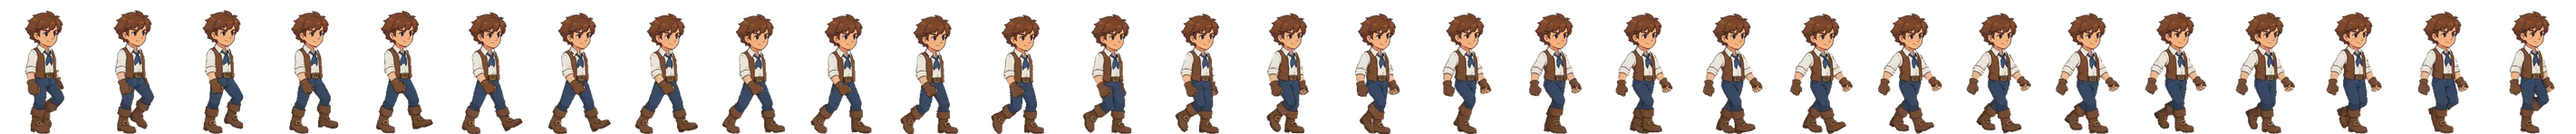
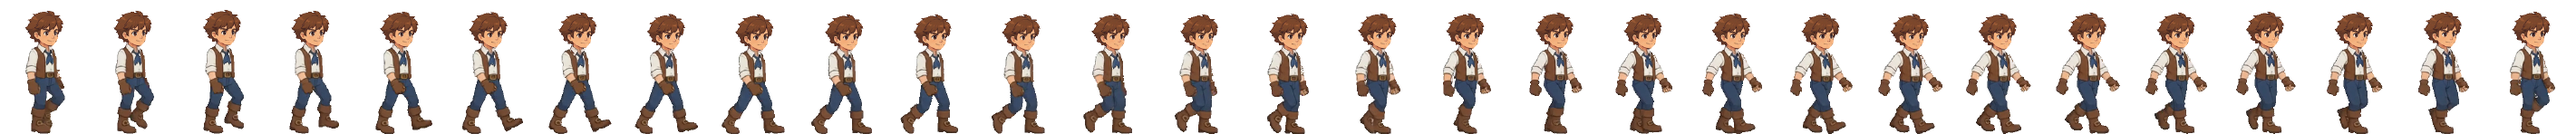
Sprixen pipeline QA + front/back idles
- tools/sprixen/qa_strip.py: per-frame checks (fringe, haze, holes, specks, ground
  contact, size, drift, head lock, pops/seam) + contact sheets
- resample.py: premultiplied area downscale (no Lanczos ringing specks),
  final defringe, pinhole fill, feet snapped to the ground row
- front/back base sprites + breathing idles (face-locked, swell removed),
  all directions normalized to the same 133px in-game height
- player.gd loads <hero>_<down|up>_<walk|idle>.png strips when present
- find_loop.py / normalize_swell.py helpers

Claude-Session: https://claude.ai/code/session_01BTTj8a1B5QVYLgtfGJQMDk

diff --git a/tools/sprixen/qa_strip.py b/tools/sprixen/qa_strip.py
@@ -1,0 +1,146 @@
+"""Frame-by-frame quality check for an in-game animation strip (98x148 cells).
+
+Checks every frame for:
+  halo     edge pixels much lighter than the colour just inside them (white fringe)
+  haze     cool / greenish light pixels (background-removal leftovers)
+  holes    see-through pockets fully enclosed by the character
+  islands  stray specks not connected to the body
+  ground   feet not touching the cell's bottom row (floating / sinking)
+  size     character height vs the target and vs the other frames
+  drift    side-to-side wobble of the body centre
+  head     head region changing shape between frames (face lock check)
+  pops     a frame-to-frame change much larger than the rest (jumps), incl. the loop seam
+and writes a 3x contact sheet on magenta + green for a visual pass.
+
+usage: python3 qa_strip.py <strip.png> <name> [target_height=133] [walk|idle]
+exit code 1 if any check fails.
+"""
+import sys
+import numpy as np
+from PIL import Image, ImageDraw
+from scipy import ndimage
+
+CELL_W, CELL_H, FOOT_Y = 98, 148, 147
+
+
+def frames_of(path):
+    im = np.array(Image.open(path).convert("RGBA")).astype(np.int32)
+    n = im.shape[1] // CELL_W
+    return [im[:, i * CELL_W:(i + 1) * CELL_W] for i in range(n)]
+
+
+def main():
+    path, name = sys.argv[1], sys.argv[2]
+    target = float(sys.argv[3]) if len(sys.argv) > 3 else 133.0
+    kind = sys.argv[4] if len(sys.argv) > 4 else "walk"
+    fr = frames_of(path)
+    n = len(fr)
+    fails, notes = [], []
+    heights, centres, bottoms, heads, masks = [], [], [], [], []
+    for i, f in enumerate(fr):
+        a = f[:, :, 3]
+        m = a > 0
+        solid = a >= 128
+        ys, xs = np.where(m)
+        top, bot = ys.min(), ys.max()
+        heights.append(bot - top)
+        bottoms.append(bot)
+        t0, t1 = top + int(0.40 * (bot - top)), top + int(0.55 * (bot - top))   # torso band
+        centres.append(np.where(m[t0:t1])[1].mean())
+        masks.append(solid)
+        # head silhouette: top 28% of the body, aligned on its own top row
+        hh = int(0.28 * (bot - top))
+        head = np.zeros((hh, CELL_W), bool)
+        head[:] = solid[top:top + hh]
+        heads.append(head)
+
+        rgb = f[:, :, :3]
+        lum = rgb.mean(2)
+        # halo: outer edge pixels that are much lighter than the solid pixel 2px inside
+        outside = ~m
+        edge = m & ndimage.binary_dilation(outside)
+        inner = solid & ~ndimage.binary_dilation(outside, iterations=2)
+        if inner.any():
+            _, (iy, ix) = ndimage.distance_transform_edt(~inner, return_indices=True)
+            halo = edge & (lum - lum[iy, ix] > 45) & (lum > 170)
+            h = int(halo.sum())
+            if h > 6:
+                fails.append(f"frame {i}: {h} white-fringe edge pixels")
+            elif h:
+                notes.append(f"frame {i}: {h} light edge px (ok)")
+        haze = m & ndimage.binary_dilation(outside, iterations=3) & (rgb.min(2) > 140) & (rgb[:, :, 0] < np.maximum(rgb[:, :, 1], rgb[:, :, 2]) - 6)
+        if haze.sum() > 3:
+            fails.append(f"frame {i}: {int(haze.sum())} cool/greenish haze px")
+        holes, nh = ndimage.label(ndimage.binary_fill_holes(solid) & ~solid)
+        for k in range(1, nh + 1):
+            sz = int((holes == k).sum())
+            hy, hx = np.where(holes == k)
+            if sz >= 3 and hy.mean() < top + 0.55 * (bot - top):
+                fails.append(f"frame {i}: see-through hole {sz}px at ({int(hx.mean())},{int(hy.mean())})")
+        lab, nl = ndimage.label(m)
+        if nl > 1:
+            sizes = ndimage.sum(m, lab, range(1, nl + 1))
+            main = sizes.max()
+            specks = [int(s) for s in sizes if s < main]
+            if specks:
+                fails.append(f"frame {i}: {len(specks)} stray speck(s), largest {max(specks)}px")
+        if bot != FOOT_Y:
+            fails.append(f"frame {i}: feet at row {bot}, not on the ground row {FOOT_Y}")
+
+    H = np.array(heights, float)
+    C = np.array(centres)
+    med_h = float(np.median(H))
+    if abs(med_h - target) > 3:
+        fails.append(f"median height {med_h:.0f}px vs target {target:.0f}px")
+    if kind == "idle" and H.max() - H.min() > 3:
+        fails.append(f"idle height varies {H.min():.0f}-{H.max():.0f}px")
+    if kind == "walk" and H.max() - H.min() > 8:
+        fails.append(f"walk height varies {H.min():.0f}-{H.max():.0f}px")
+    jumps = np.abs(np.diff(np.r_[C, C[0]]))
+    if jumps.max() > 2.5:
+        fails.append(f"body centre jumps {jumps.max():.1f}px between frames {int(jumps.argmax())}->{(int(jumps.argmax()) + 1) % n}")
+    # head shape stability (IoU vs median frame)
+    ref = heads[n // 2]
+    for i, h in enumerate(heads):
+        k = min(len(h), len(ref))
+        inter = (h[:k] & ref[:k]).sum(); uni = (h[:k] | ref[:k]).sum()
+        iou = inter / max(uni, 1)
+        if iou < 0.80:
+            fails.append(f"frame {i}: head shape differs (IoU {iou:.2f})")
+    # pops: silhouette change between consecutive frames, including the loop seam
+    d = np.array([(masks[i] ^ masks[(i + 1) % n]).sum() for i in range(n)], float)
+    med = np.median(d)
+    for i, v in enumerate(d):
+        if v > max(2.6 * med, med + 120):
+            fails.append(f"pop: frame {i}->{(i + 1) % n} changes {int(v)}px (typical {int(med)})")
+
+    print(f"== {name}: {n} frames, height {H.min():.0f}-{H.max():.0f} (median {med_h:.0f}, target {target:.0f}), "
+          f"centre range {C.min():.1f}-{C.max():.1f}, max centre step {jumps.max():.1f}, "
+          f"silhouette change median {med:.0f}px max {d.max():.0f}px")
+    for x in notes[:6]:
+        print("   note:", x)
+    for x in fails:
+        print("   FAIL:", x)
+    print("   RESULT:", "PASS" if not fails else f"{len(fails)} issue(s)")
+
+    # contact sheet
+    cols = min(n, 10)
+    rows = (n + cols - 1) // cols
+    S = 3
+    sheet = Image.new("RGBA", (cols * CELL_W * S, rows * CELL_H * S * 2), (0, 0, 0, 255))
+    strip = Image.open(path).convert("RGBA")
+    for bi, bg in enumerate([(200, 0, 200, 255), (110, 165, 85, 255)]):
+        for i in range(n):
+            cell = strip.crop((i * CELL_W, 0, (i + 1) * CELL_W, CELL_H)).resize((CELL_W * S, CELL_H * S), Image.NEAREST)
+            tile = Image.new("RGBA", cell.size, bg)
+            tile.alpha_composite(cell)
+            ImageDraw.Draw(tile).text((4, 4), str(i), fill=(255, 255, 255, 255))
+            sheet.paste(tile, ((i % cols) * CELL_W * S, (bi * rows + i // cols) * CELL_H * S))
+    out = f"/tmp/qa_{name}.png"
+    sheet.save(out)
+    print("   contact sheet:", out)
+    sys.exit(1 if fails else 0)
+
+
+if __name__ == "__main__":
+    main()

diff --git a/tools/sprixen/resample.py b/tools/sprixen/resample.py
@@ -1,0 +1,71 @@
+"""Shared downscale for game strips: premultiplied-alpha area averaging.
+Lanczos rings at hard edges (faint specks + light halo just outside the outline);
+area averaging in premultiplied space can't overshoot, so edges stay clean.
+Alpha below FLOOR (invisible dust) is dropped."""
+import numpy as np
+from PIL import Image
+
+FLOOR = 24
+
+
+def downscale(img, w, h):
+    small = img.convert("RGBa").resize((w, h), Image.BOX).convert("RGBA")
+    a = np.array(small)
+    a[a[:, :, 3] < FLOOR] = 0
+    return Image.fromarray(a)
+
+
+def defringe(img, lighter=40, passes=2):
+    """Final game-size pass: an outer edge pixel that is clearly lighter than the solid
+    pixel just inside it is a light rim outside the dark outline -> take the inside colour."""
+    from scipy import ndimage
+    a = np.array(img.convert("RGBA")).astype(np.int32)
+    for _ in range(passes):
+        alpha = a[:, :, 3]
+        m = alpha > 0
+        solid = alpha >= 128
+        edge = m & ndimage.binary_dilation(~m)
+        inner = solid & ~ndimage.binary_dilation(~m, iterations=2)
+        if not inner.any():
+            break
+        _, (iy, ix) = ndimage.distance_transform_edt(~inner, return_indices=True)
+        lum = a[:, :, :3].mean(2)
+        rgb = a[:, :, :3]
+        bad = edge & (lum - lum[iy, ix] > lighter) & (lum > 150)
+        # cool / greenish light pixels near the outside are background-removal leftovers
+        # (inside the body, white shirt next to the navy neckerchief is legitimately bluish-grey)
+        near_out = ndimage.binary_dilation(~m, iterations=3)
+        bad |= m & near_out & (rgb.min(2) > 140) & (rgb[:, :, 0] < np.maximum(rgb[:, :, 1], rgb[:, :, 2]) - 6)
+        a[bad, :3] = a[iy[bad], ix[bad], :3]
+    return Image.fromarray(a.astype(np.uint8))
+
+
+def snap_feet(img, cell_w=98, foot_y=147):
+    """Shift each cell up/down so its lowest solid row sits exactly on the ground row
+    (rounding during scaling can leave a frame floating or sunk by 1px)."""
+    a = np.array(img.convert("RGBA"))
+    for i in range(a.shape[1] // cell_w):
+        c = a[:, i * cell_w:(i + 1) * cell_w]
+        rows = np.where((c[:, :, 3] >= 128).any(1))[0]
+        if len(rows):
+            dy = foot_y - rows.max()
+            if dy:
+                a[:, i * cell_w:(i + 1) * cell_w] = np.roll(c, dy, axis=0)
+    return Image.fromarray(a)
+
+
+def fill_pinholes(img, max_px=12):
+    """Close tiny see-through pockets fully enclosed by the body (one-frame flicker gaps
+    between a forearm and the hip); real gaps like between the legs are much larger."""
+    from scipy import ndimage
+    a = np.array(img.convert("RGBA")).astype(np.int32)
+    solid = a[:, :, 3] >= 128
+    holes, n = ndimage.label(ndimage.binary_fill_holes(solid) & ~solid)
+    if n:
+        _, (iy, ix) = ndimage.distance_transform_edt(~solid, return_indices=True)
+        for k in range(1, n + 1):
+            hm = holes == k
+            if hm.sum() <= max_px:
+                a[hm, :3] = a[iy[hm], ix[hm], :3]
+                a[hm, 3] = 255
+    return Image.fromarray(a.astype(np.uint8))

diff --git a/tools/sprixen/lock_head.py b/tools/sprixen/lock_head.py
@@ -10,7 +10,7 @@ Per frame:
   4. warp the hair rows by a lagged copy of the bob (hair trails the head by ~2
      frames and settles), fading to zero at the brow so the face stays rigid.
 
-usage: python3 lock_head.py <sheet.png> <base_sprite.png> <out_sheet.png> [cycles=2] [hair_gain=0.8]
+usage: python3 lock_head.py <sheet.png> <base_sprite.png> <out_sheet.png> [cycles=2] [hair_gain=0.8] [profile=side]
   cycles = how many up/down bobs one loop contains (2 for a walk, 1 for an idle)
 """
 import sys
@@ -21,9 +21,14 @@ from scipy import ndimage
 ALPHA_CUT = 60    # Sprixen leaves the far arm partly see-through: anything above this counts as solid
 
 SRC = 256
-# rows of the approved base sprite (arthur_v1_base.png)
-HEAD_TOP, BROW, CHIN_CUT = 18, 50, 88     # head = rows HEAD_TOP..CHIN_CUT
-FACE = (54, 84)                            # rows used to find the head in a frame
+# rows of each approved base sprite: head = HEAD_TOP..CHIN_CUT, FACE = rows used to find the head
+PROFILES = {
+    "side":  dict(HEAD_TOP=18, BROW=50, CHIN_CUT=88, FACE=(54, 84)),   # arthur_v1_base.png
+    "front": dict(HEAD_TOP=14, BROW=46, CHIN_CUT=84, FACE=(48, 78)),   # arthur_front_base.png
+    "back":  dict(HEAD_TOP=20, BROW=46, CHIN_CUT=84, FACE=(44, 78)),   # arthur_back_base.png (hair)
+}
+HEAD_TOP, BROW, CHIN_CUT = 18, 50, 88
+FACE = (54, 84)
 FEATHER = 4                                # soft blend rows at the bottom of the pasted head
 
 
@@ -91,10 +96,13 @@ def harmonics(v, cycles):
 
 def main():
     sheet = Image.open(sys.argv[1]).convert("RGBA")
-    base = rgba(Image.open(sys.argv[2]).convert("RGBA"))
+    base = clean_body(rgba(Image.open(sys.argv[2]).convert("RGBA")))   # the approved head has Sprixen's white rim too
     out_path = sys.argv[3]
     cycles = int(sys.argv[4]) if len(sys.argv) > 4 else 2
     hair_gain = float(sys.argv[5]) if len(sys.argv) > 5 else 0.8
+    global HEAD_TOP, BROW, CHIN_CUT, FACE
+    prof = PROFILES[sys.argv[6] if len(sys.argv) > 6 else "side"]
+    HEAD_TOP, BROW, CHIN_CUT, FACE = prof["HEAD_TOP"], prof["BROW"], prof["CHIN_CUT"], prof["FACE"]
     n = sheet.width // SRC
     frames = [rgba(sheet.crop((i * SRC, 0, (i + 1) * SRC, SRC))) for i in range(n)]
 

diff --git a/tools/sprixen/normalize_swell.py b/tools/sprixen/normalize_swell.py
@@ -1,0 +1,33 @@
+"""Remove Sprixen's whole-body 'swell' from a source sheet (256px frames) before head-locking:
+each frame is rescaled about its feet so its height change is cut to KEEP of the original
+(keeping a soft breath), and optionally only a frame range is kept.
+usage: python3 normalize_swell.py <sheet.png> <out.png> [keep=0.25] [first,last]"""
+import sys
+import numpy as np
+from PIL import Image
+
+SRC = 256
+sheet = Image.open(sys.argv[1]).convert("RGBA")
+keep = float(sys.argv[3]) if len(sys.argv) > 3 else 0.25
+n = sheet.width // SRC
+lo, hi = (map(int, sys.argv[4].split(","))) if len(sys.argv) > 4 else (0, n - 1)
+idx = list(range(lo, hi + 1))
+frames = [sheet.crop((i * SRC, 0, (i + 1) * SRC, SRC)) for i in idx]
+boxes = []
+for f in frames:
+    ys, xs = np.where(np.array(f)[:, :, 3] > 40)
+    boxes.append((ys.min(), ys.max(), xs.mean()))
+H = np.array([b[1] - b[0] for b in boxes], float)
+ref = float(np.median(H))
+out = Image.new("RGBA", (SRC * len(frames), SRC), (0, 0, 0, 0))
+for k, (f, (top, bot, cx), h) in enumerate(zip(frames, boxes, H)):
+    s = (ref + keep * (h - ref)) / h
+    w2 = round(SRC * s)
+    g = f.resize((w2, w2), Image.LANCZOS) if abs(s - 1) > 1e-3 else f
+    px = round(cx - cx * s)              # keep the body centre in place
+    py = round(bot - bot * s)            # keep the feet on the same row
+    cell = Image.new("RGBA", (SRC, SRC), (0, 0, 0, 0))
+    cell.alpha_composite(g, (max(px, 0), max(py, 0)), (max(-px, 0), max(-py, 0)))
+    out.paste(cell, (k * SRC, 0))
+out.save(sys.argv[2])
+print(f"frames {idx[0]}-{idx[-1]}: heights {H.min():.0f}-{H.max():.0f} -> ~{ref:.0f} (+{keep:.0%} of change)")

diff --git a/tools/sprixen/find_loop.py b/tools/sprixen/find_loop.py
@@ -1,0 +1,36 @@
+"""Find the cleanest seamless walk loop in a Sprixen premium sheet (256px frames).
+Compares body silhouettes (aligned on the torso) and picks the start/period with the
+smallest seam difference, then writes that loop as its own sheet.
+usage: python3 find_loop.py <sheet.png> <out.png> [min_period=20] [max_period=44]"""
+import sys
+import numpy as np
+from PIL import Image
+
+SRC = 256
+im = Image.open(sys.argv[1]).convert("RGBA")
+lo = int(sys.argv[3]) if len(sys.argv) > 3 else 20
+hi = int(sys.argv[4]) if len(sys.argv) > 4 else 44
+a = np.array(im)
+n = im.width // SRC
+sil = []
+for i in range(n):
+    al = a[:, i * SRC:(i + 1) * SRC, 3] > 40
+    ys, xs = np.where(al)
+    top = ys.min()
+    cx = int(round(np.where(al[top + 75:top + 105])[1].mean()))
+    sil.append(np.roll(al, 128 - cx, axis=1).astype(np.float32))
+best = None
+for p in range(lo, min(hi, n - 1) + 1):
+    for s in range(0, n - p):
+        d = np.abs(sil[s] - sil[s + p]).mean()
+        # also make sure the frame after the seam flows (s+1 vs s+p+1 if available)
+        if s + p + 1 < n:
+            d += 0.5 * np.abs(sil[s + 1] - sil[s + p + 1]).mean()
+        score = d
+        if best is None or score < best[0]:
+            best = (score, s, p)
+score, s, p = best
+im.crop((s * SRC, 0, (s + p) * SRC, SRC)).save(sys.argv[2])
+steps = [np.abs(sil[i] - sil[i + 1]).mean() for i in range(s, s + p - 1)]
+print(f"{n} frames; loop = frames {s}..{s + p - 1} (period {p}); seam diff {score:.4f}; "
+      f"typical step {np.median(steps):.4f}")

diff --git a/tools/sprixen/build_walk_strip.py b/tools/sprixen/build_walk_strip.py
@@ -14,6 +14,7 @@ usage: python3 build_walk_strip.py <sheet.png> <out.png> [target_height=133] [fp
 import sys
 import numpy as np
 from PIL import Image
+from resample import downscale, defringe, snap_feet, fill_pinholes
 
 SRC = 256
 CELL_W, CELL_H = 98, 148
@@ -50,7 +51,7 @@ def main():
     for i, (f, d) in enumerate(zip(frames, info)):
         s = base * smooth[i] / d["h"]
         w2, h2 = round(SRC * s), round(SRC * s)
-        big = f.resize((w2 * 2, h2 * 2), Image.LANCZOS).resize((w2, h2), Image.LANCZOS)
+        big = downscale(f, w2, h2)
         # place: torso centre -> CENTER_X, feet bottom -> FOOT_Y
         px = round(i * CELL_W + CENTER_X - d["torso"] * s)
         py = round(FOOT_Y - d["bot"] * s)
@@ -67,6 +68,7 @@ def main():
         ys, xs = np.where(a)
         low = xs[ys > d["bot"] - 4]
         foot_x.append((low.min() - d["torso"]) * s)   # toe-side unused; heel edge
+    strip = snap_feet(fill_pinholes(defringe(strip)))
     strip.save(out)
     # planted-foot slide per frame (backwards = positive speed)
     dx = [foot_x[i] - foot_x[(i + 1) % n] for i in range(n)]

diff --git a/tools/sprixen/build_idle_strip.py b/tools/sprixen/build_idle_strip.py
@@ -11,6 +11,7 @@ usage: python3 build_idle_strip.py <sheet.png> <out.png> [target_height=133]
 import sys
 import numpy as np
 from PIL import Image
+from resample import downscale, defringe, snap_feet, fill_pinholes
 
 SRC_CELL = 256
 CELL_W, CELL_H = 98, 148
@@ -44,7 +45,7 @@ def main():
         w2 = max(1, round(part.width * s))
         h2 = max(1, round(part.height * s))
         # resample at 2x then halve for clean edges
-        part = part.resize((w2 * 2, h2 * 2), Image.LANCZOS).resize((w2, h2), Image.LANCZOS)
+        part = downscale(part, w2, h2)
         # horizontal anchor: feet span centre, so the planted feet never slide
         a = np.array(f)[:, :, 3]
         fy = np.where(a[y1 - 8:y1 + 1] > 40)[1]
@@ -52,6 +53,7 @@ def main():
         px = round(i * CELL_W + CENTER_X - feet_cx)
         py = FOOT_Y + 1 - h2
         strip.alpha_composite(part, (px, py))
+    strip = snap_feet(fill_pinholes(defringe(strip)))
     strip.save(out_path)
     print(f"{n} frames, median src height {ref_h:.0f}px, scale {base_scale:.3f} -> {out_path}")
 
